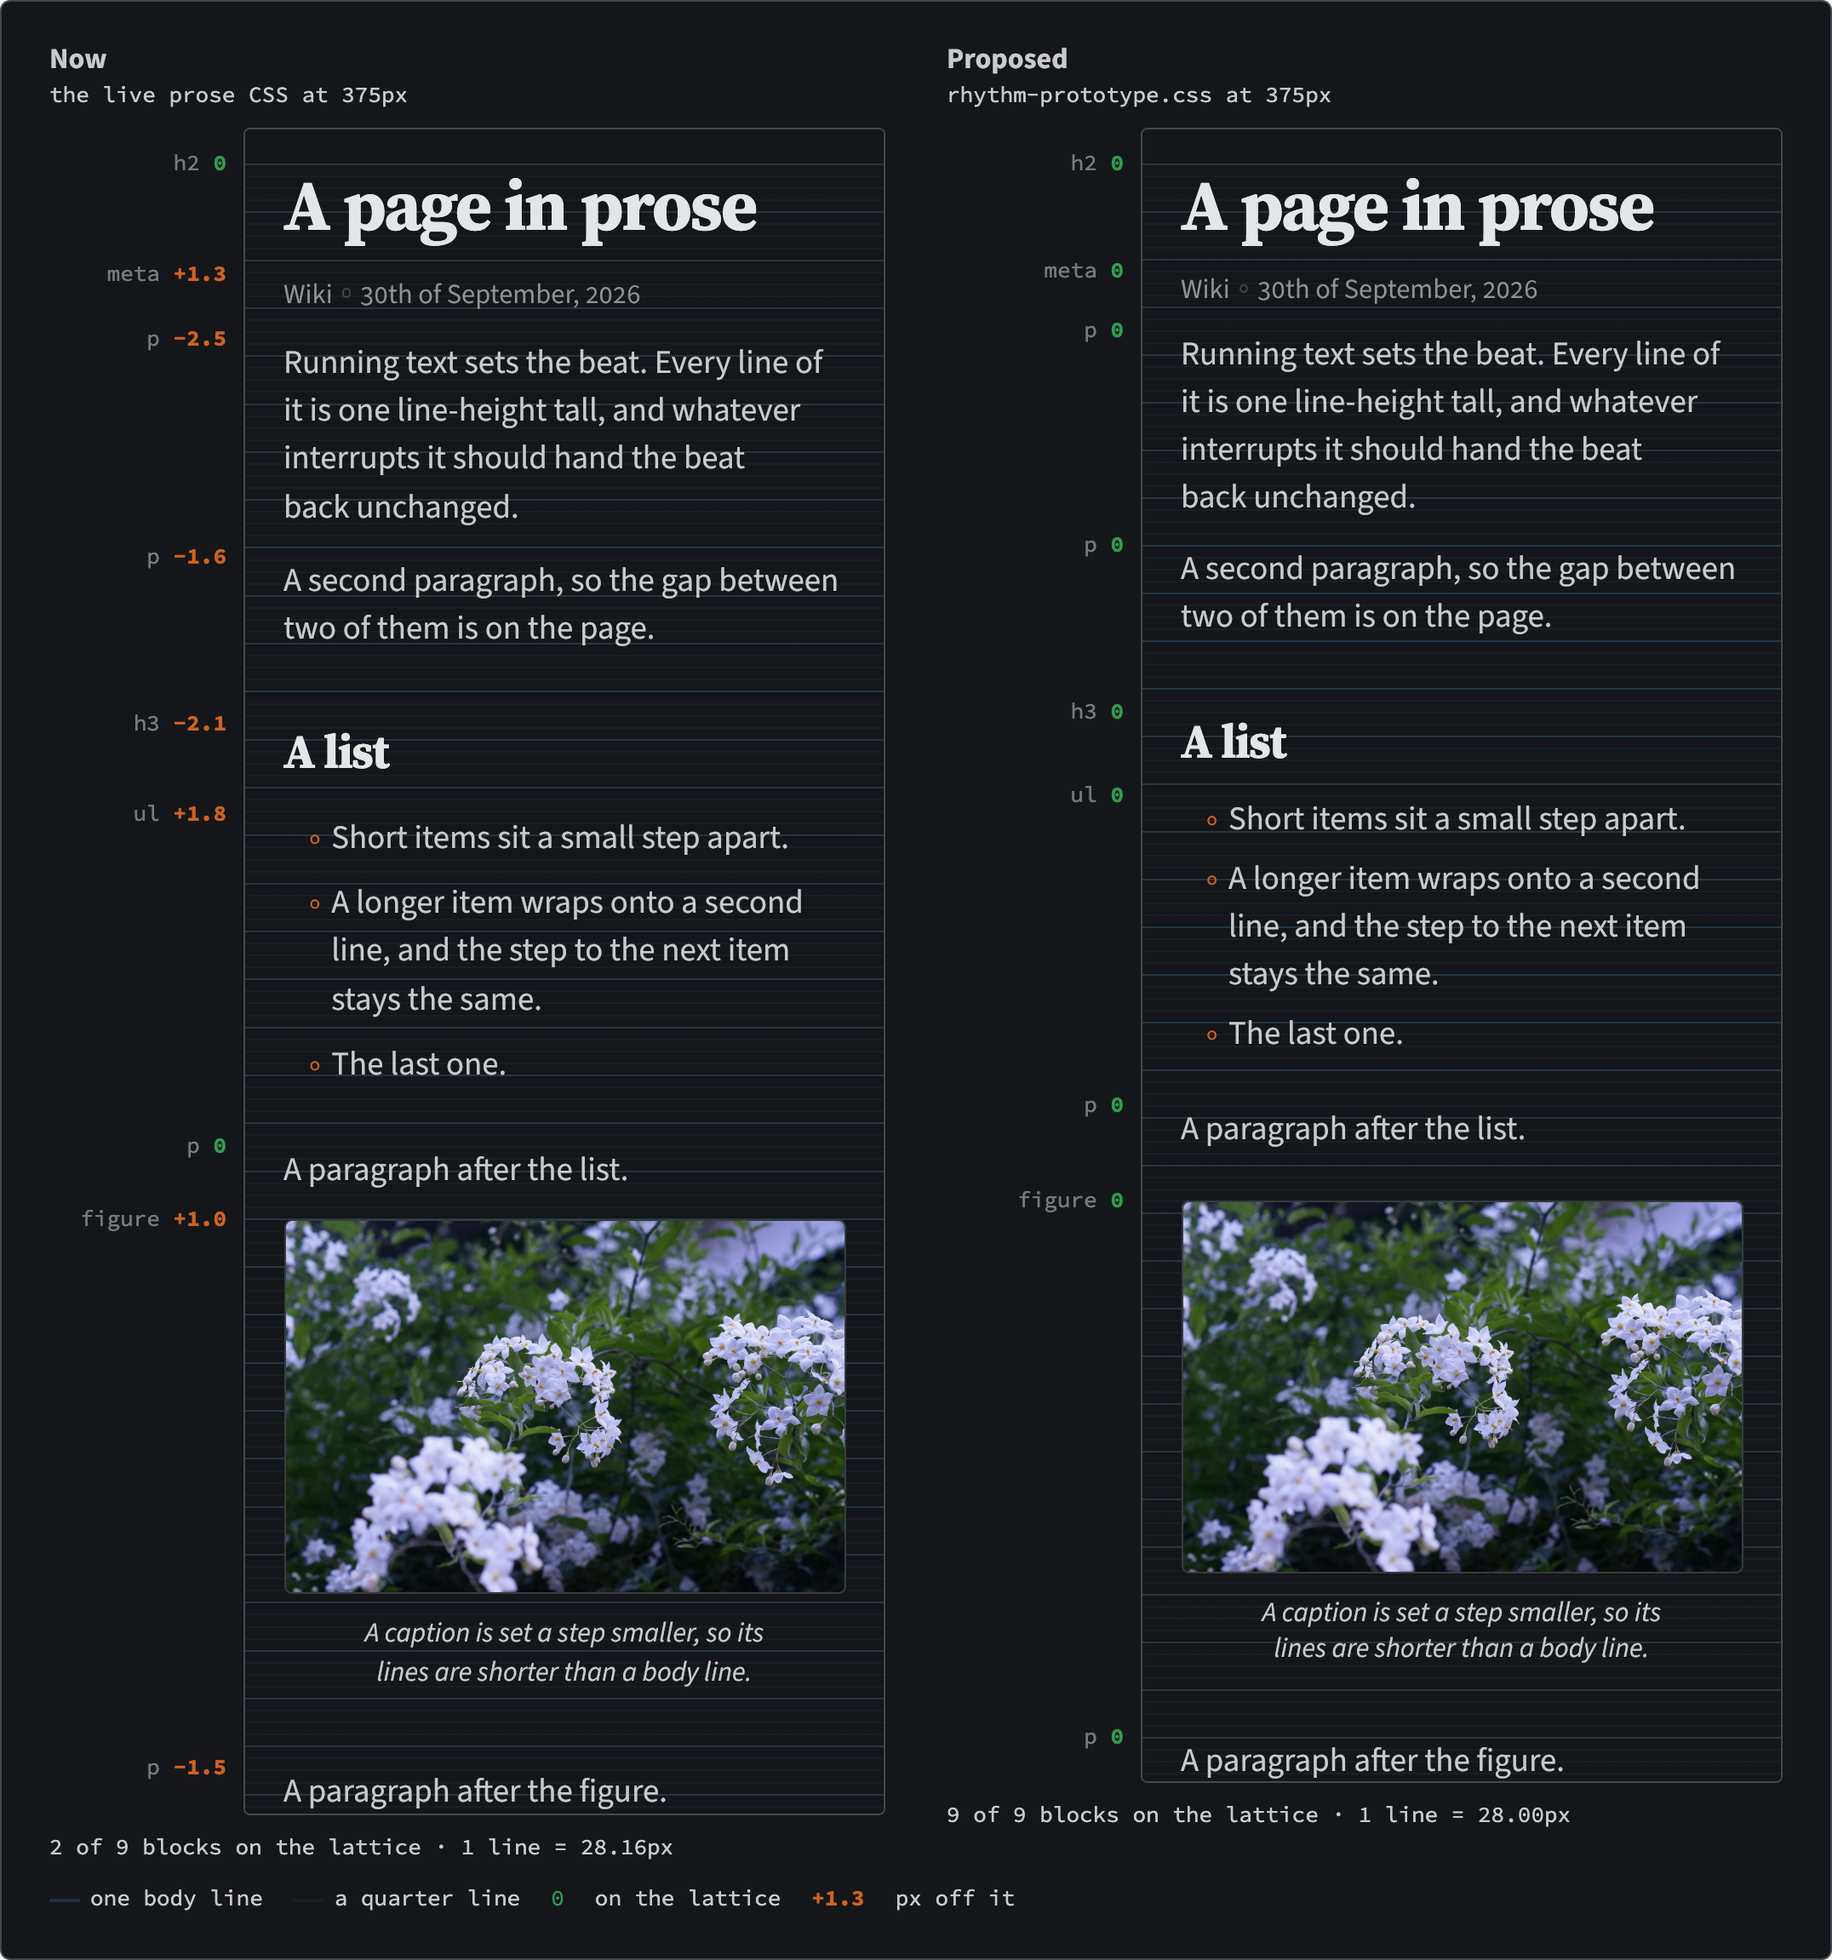
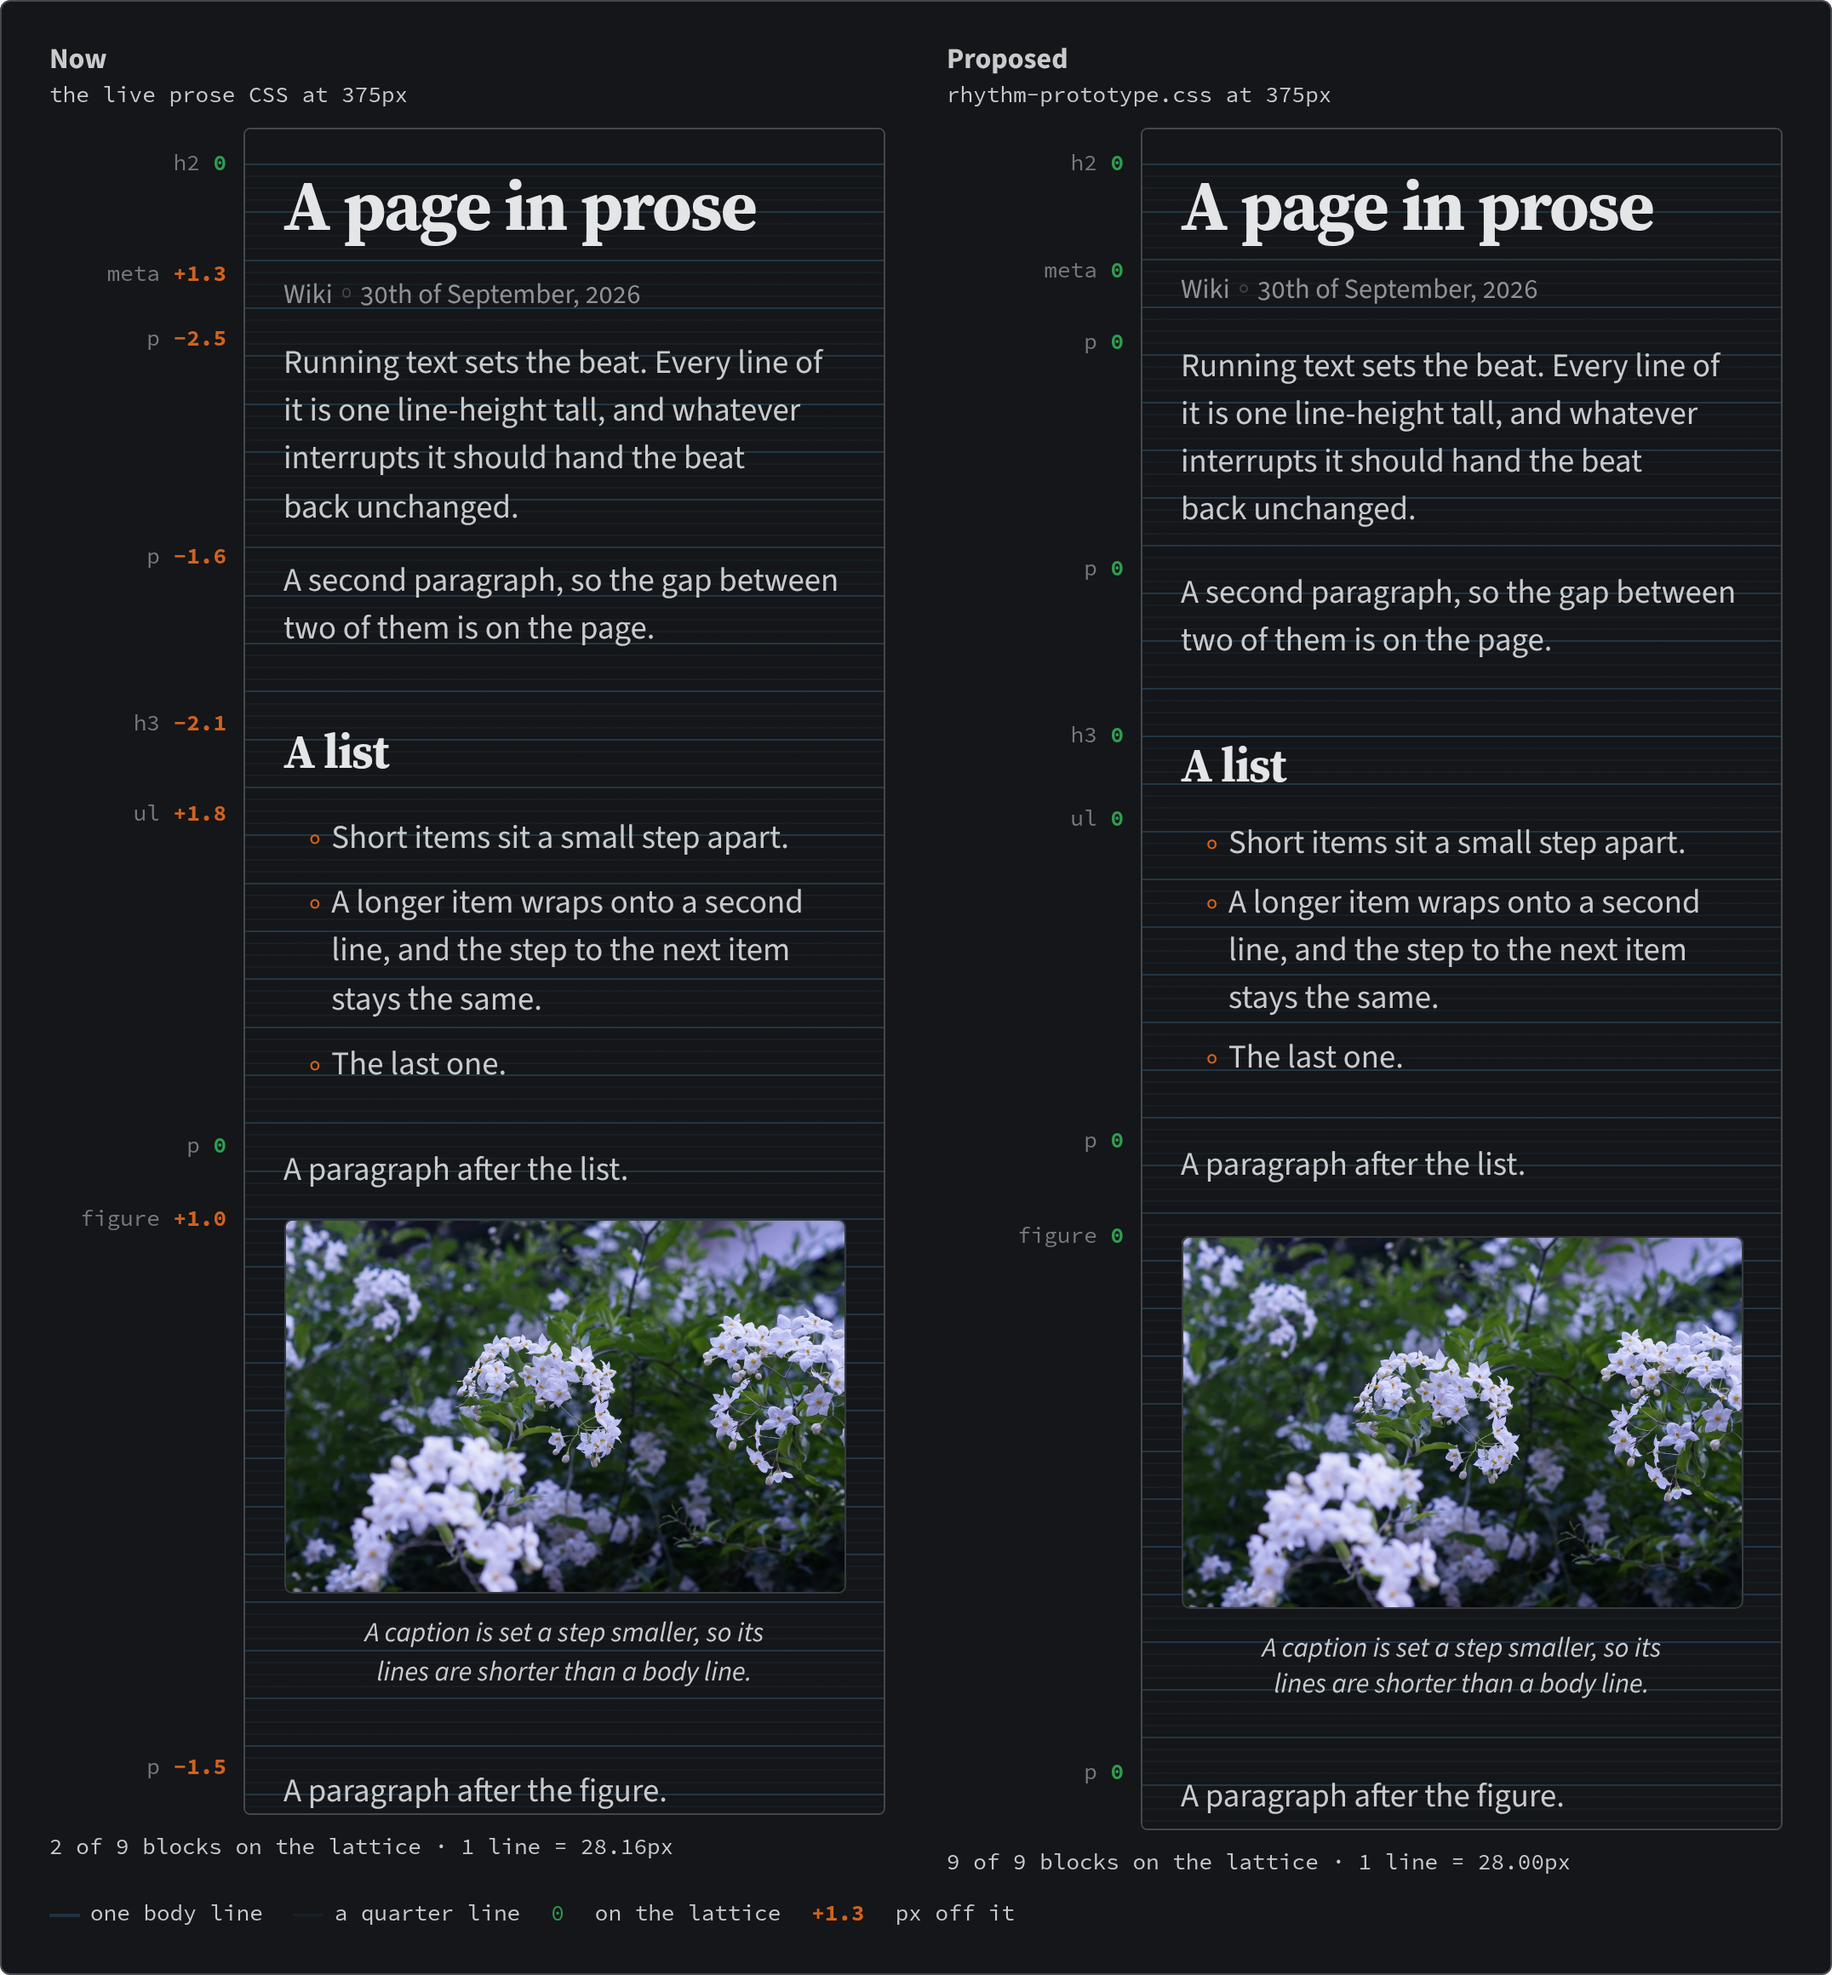
Rhythm prototype: paragraph gap back to three-quarters of a line
Half a line made the space under a heading equal the paragraph gap. Reverts the trial; the wiki records the choice in place of the open question.

diff --git a/src/assets/css/local/rhythm-prototype.css b/src/assets/css/local/rhythm-prototype.css
@@ -28,7 +28,7 @@ A proposal, not the site's CSS: every vertical gap, and every line box that is n
   --line-2: calc(var(--line) * 2);
 
   /* The knobs: every rule below reads one of these. */
-  --rhythm-gap: var(--line-half);
+  --rhythm-gap: var(--line-3q);
   --rhythm-after-heading: var(--line-half);
   --rhythm-small-leading: var(--line-3q);
   --rhythm-rule-color: var(--color-bg-accent-2);

diff --git a/src/wiki/Vertical rhythm.md b/src/wiki/Vertical rhythm.md
@@ -71,7 +71,7 @@ Measured in the mockup below at 375px and 1360px, on the same prose sample under
 Table: What each element takes now and in the quarter-line prototype (375px / 1360px)
 | element | now | prototype | how |
 | --- | --- | --- | --- |
-| gap between paragraphs | 14.9 / 31.0 px | 14 / 20.5 px (½ line) | `--flow-space` |
+| gap between paragraphs | 14.9 / 31.0 px | 21 / 30.75 px (¾ line) | `--flow-space` |
 | space above an `h3` | 41.8 / 65.9 px | 42 / 61.5 px (1½ lines) | `--flow-space` on the heading |
 | space under a heading | 14.9–19.7 / 31.0 px | 14 / 20.5 px (½ line) | `:is(h1, h2, h3, h4) + *` |
 | heading line | 1.2 × its size | nearest quarter line to 1.2 × its size | `round()` |
@@ -167,7 +167,7 @@ Table: The prototype's intervals read as rhythm
 | --- | --- | --- |
 | body text | 1 | the beat |
 | quarter line | ¼ | the subdivision everything is counted in |
-| gap between paragraphs | ½ | a short rest |
+| gap between paragraphs | ¾ | a short rest |
 | space under a heading | ½ | a breath that ties the heading to its phrase |
 | space above an `h2` | 2 | a longer rest before a new section |
 | caption, meta, code or footnote line | ¾ | four against three: four lines in three beats |
@@ -211,7 +211,7 @@ Table: Scale.css, jedee now, and the prototype
 | | Scale.css (2012) | jedee now | prototype |
 | --- | --- | --- | --- |
 | unit | the line, 1.5em | none: Utopia space tokens | a quarter of the body line |
-| gap between paragraphs | 1 line | 0.53–0.76 line | ½ line |
+| gap between paragraphs | 1 line | 0.53–0.76 line | ¾ line |
 | list indent | 1 line, hanging from 479px | 1 line (`1lh`) | as now |
 | unordered list marker | hollow circle | hollow ring (◦) | as now |
 | space under code | about 1.9 lines | the gap + 1em of code | the gap + ½ line |
@@ -238,12 +238,12 @@ arielsalminen.com could not be opened from the session. The 2012 article is quot
 Everything vertical comes from one rule, `.flow > * + *` in `global/compositions/flow.css`, fed by Eleventy Excellent's Utopia tokens and the element rules in `global/blocks/prose.css`. Nothing is measured in lines.
 
 <figure class="popout" data-wiki-mockup>
-  <img eleventy:formats="webp,png" src="/assets/images/wiki/vertical-rhythm-drift-top.png" alt="Two copies of the same prose sample, 375 pixels wide, side by side over blue rules at every body line and fainter ones at every quarter line. A label beside each block gives its distance in pixels from the nearest quarter line. Left, the site's current CSS: the heading 0, meta line +1.3, the two paragraphs −2.5 and −1.6, the h3 −2.1, the list +1.8, the paragraph after it 0, the figure +1.0, the paragraph after the figure −1.5; two of nine blocks on the lattice. Right, the prototype: every label reads 0, nine of nine." width="2152" height="2302">
+  <img eleventy:formats="webp,png" src="/assets/images/wiki/vertical-rhythm-drift-top.png" alt="Two copies of the same prose sample, 375 pixels wide, side by side over blue rules at every body line and fainter ones at every quarter line. A label beside each block gives its distance in pixels from the nearest quarter line. Left, the site's current CSS: the heading 0, meta line +1.3, the two paragraphs −2.5 and −1.6, the h3 −2.1, the list +1.8, the paragraph after it 0, the figure +1.0, the paragraph after the figure −1.5; two of nine blocks on the lattice. Right, the prototype: every label reads 0, nine of nine." width="2152" height="2320">
   <figcaption>The first half of the sample on a phone. Each label is how far that block's top edge is from the nearest quarter line; half a pixel or less counts as on it.</figcaption>
 </figure>
 
 <figure class="popout" data-wiki-mockup>
-  <img eleventy:formats="webp,png" src="/assets/images/wiki/vertical-rhythm-drift-end.png" alt="The second half of the same comparison. Left, the current CSS: table −0.7, blockquote −2.7, code block −3.1, paragraph −0.6, rule 0, numbered list +2.8, disclosure −1.9, photo metadata −1.1, paragraph 0, footnote rule +0.9, footnotes −3.4; four of twenty blocks on the lattice over the whole page. Right, the prototype: every label 0, twenty of twenty. The prototype's table rows, code block and rule are visibly more even." width="2152" height="2530">
+  <img eleventy:formats="webp,png" src="/assets/images/wiki/vertical-rhythm-drift-end.png" alt="The second half of the same comparison. Left, the current CSS: table −0.7, blockquote −2.7, code block −3.1, paragraph −0.6, rule 0, numbered list +2.8, disclosure −1.9, photo metadata −1.1, paragraph 0, footnote rule +0.9, footnotes −3.4; four of twenty blocks on the lattice over the whole page. Right, the prototype: every label 0, twenty of twenty. The prototype's table rows, code block and rule are visibly more even." width="2152" height="2612">
   <figcaption>The second half, from the table on. The lattice is still counted from the page's first block.</figcaption>
 </figure>
 
@@ -266,7 +266,7 @@ Both figures are `src/wiki/_sources/vertical-rhythm.html`. It fetches the style 
   --line-1h: calc(var(--line) * 1.5);
   --line-2: calc(var(--line) * 2);
 
-  --rhythm-gap: var(--line-half);
+  --rhythm-gap: var(--line-3q);
   --rhythm-after-heading: var(--line-half);
   --rhythm-small-leading: var(--line-3q);
   --flow-space: var(--rhythm-gap);
@@ -285,7 +285,7 @@ It changes no token and no global file. It works through `--flow-space`, the pub
 
 ### Not done
 
-- **The paragraph gap.** Half a line since 2026-10-01, on trial: 14px on a phone, as now, and 20.5px on a wide screen, two-thirds of today's 31px. Three-quarters, the first proposal, made the phone gap 21px. At half a line the space under a heading equals the paragraph gap, so a heading no longer sits closer to its text than paragraphs sit to each other.
+- **The paragraph gap.** Three-quarters of a line is 21px on a phone where the gap is 15px now, and the same as now on a wide screen. Half a line would keep the phone as it is and halve the desktop gap. This is the change a reader would notice first, and it is Johan's call.
 - **Adopting it.** The unit and its line-height would move to `.prose`. ⚠ A length line-height inherits as a length, so anything inside prose that sets its own font size without a line-height (a card, a webmention, an embed's caption) would inherit the body's 28px lines. Each needs its own line-height, from the small-text step or the ratio it has now.
 - **Image ratios.** Snapping figures needs `--img-ratio` on each figure. The eleventy-img transform could write it; nothing does yet.
 - **Page-level space.** Region padding, the header and the footer stay on the Utopia tokens. They frame the text rather than interrupt it.
